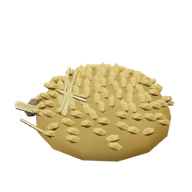
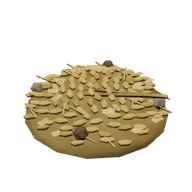
Avance: la criba con la veta a lo largo del aro, el solape cosido a la vista y la piel más oscura y curtida, con los agujeros algo irregulares; el grano sin limpiar, un montón bajo de color paja apagado con granos tumbados, granzas, briznas y chinas (segunda mirada: no); iconos-v26 rehechos
Claude-Session: https://claude.ai/code/session_011XgxtjEppnFb2Roiw57rgg

Changed region(s): [[0.0625, 0.3125, 0.9062, 0.8438]]

diff --git a/src/juego/modelos_objetos.js b/src/juego/modelos_objetos.js
@@ -635,6 +635,7 @@ function estacas(n, id) {
 // punzón (agujeros del tamaño de un grano, en hileras desde el centro). En el lote L, con el centro del fondo en (x, y, z)
 // y el giro (Euler YXZ) dado.
 export const CRIBA = { r: 0.23, alto: 0.075, grosor: 0.011 };
+const PIEL_CRIBA = 0x9a8262;   // la piel limpia ya usada: más oscura y curtida por el grano y el polvo
 export function cribaEn(L, x, y, z, giro = null, id = 'criba') {
   const { r, alto, grosor } = CRIBA;
   const g = giro ? new THREE.Matrix4().makeRotationFromEuler(new THREE.Euler(giro.x || 0, giro.y || 0, giro.z || 0, 'YXZ')) : new THREE.Matrix4();
@@ -644,14 +645,19 @@ export function cribaEn(L, x, y, z, giro = null, id = 'criba') {
     m.setPosition(0, 0, 0); L.add(geo, color, c.x, c.y, c.z, m, { sinSuelo: true, ...opc });
   };
   // el aro de fuera: una banda con su grosor (perfil girado), algo irregular de alto
-  const perfil = [[r, 0], [r + grosor, 0], [r + grosor, alto], [r, alto * 0.97], [r, 0]].map(([a, b]) => new THREE.Vector2(a, b));
-  pon(new THREE.LatheGeometry(perfil, 28), 0x8f7350, 0, 0, 0, { tex: 'veta' });
+  // (con muchos puntos a lo alto, para que la veta, a lo largo del aro, tenga dónde pintarse)
+  const N = 14, perfil = [[r, 0], [r + grosor, 0]];
+  for (let i = 1; i <= N; i++) perfil.push([r + grosor, alto * i / N]);
+  for (let i = N; i >= 0; i--) perfil.push([r, alto * 0.97 * i / N]);
+  for (let i = 0; i < perfil.length; i++) perfil[i] = new THREE.Vector2(perfil[i][0], perfil[i][1]);
+  const vetaAro = v => 0.88 + 0.09 * Math.sin(v.y * 330 + Math.atan2(v.z, v.x) * 2) + 0.05 * Math.sin(v.y * 900 + Math.atan2(v.z, v.x) * 5);   // la veta, a lo largo del aro (es una tira de vara rajada y curvada)
+  pon(new THREE.LatheGeometry(perfil, 28), 0x8a6d4a, 0, 0, 0, { tex: 'liso', rayas: vetaAro });
   // el aro de dentro, más bajo, que pinza la piel contra el de fuera
   const perfil2 = [[r - grosor * 0.9, 0.004], [r, 0.004], [r, 0.03], [r - grosor * 0.9, 0.03], [r - grosor * 0.9, 0.004]].map(([a, b]) => new THREE.Vector2(a, b));
-  pon(new THREE.LatheGeometry(perfil2, 28), 0x7a6043, 0, 0, 0, { tex: 'veta' });
+  pon(new THREE.LatheGeometry(perfil2, 28), 0x75593c, 0, 0, 0, { tex: 'liso', rayas: vetaAro });
   // el solape de las puntas del aro de fuera, cosido con tres puntadas de tira
   const aS = az(id, 1) * Math.PI * 2, rot = new THREE.Matrix4().makeRotationY(-aS);
-  pon(cajaR(0.006, alto * 0.95, 0.09, 0.002), 0x846946, Math.cos(aS) * (r + grosor + 0.003), alto * 0.48, Math.sin(aS) * (r + grosor + 0.003), { tex: 'veta' }, rot);
+  pon(cajaR(0.007, alto * 0.95, 0.12, 0.002), 0x6f5539, Math.cos(aS) * (r + grosor + 0.003), alto * 0.48, Math.sin(aS) * (r + grosor + 0.003), { tex: 'veta' }, rot);
   for (let k = -1; k <= 1; k++) {
     const a = aS + k * 0.13;
     pon(new THREE.TorusGeometry(0.012, 0.0022, 3, 8), 0x5a4330, Math.cos(a) * (r + grosor / 2), alto * 0.5, Math.sin(a) * (r + grosor / 2), { tex: 'liso' }, new THREE.Matrix4().makeRotationY(-a).multiply(new THREE.Matrix4().makeScale(0.7, 2.2, 1)));
@@ -660,19 +666,19 @@ export function cribaEn(L, x, y, z, giro = null, id = 'criba') {
   const fondo = new THREE.CircleGeometry(r + grosor * 0.2, 28, 0, Math.PI * 2); fondo.rotateX(-Math.PI / 2);
   const fp = fondo.attributes.position; for (let i = 0; i < fp.count; i++) { const d = Math.hypot(fp.getX(i), fp.getZ(i)) / r; fp.setY(i, -0.006 * (1 - d * d)); }
   fondo.computeVertexNormals();
-  pon(fondo, PIEL_LIMPIA, 0, 0.012, 0, { tex: 'liso', rayas: moteadoPiel(id, 1.2) });
+  pon(fondo, PIEL_CRIBA, 0, 0.012, 0, { tex: 'liso', rayas: moteadoPiel(id, 2.2) });
   // y por debajo (la cara de fuera de la piel), para que se vea también de canto y desde abajo, con sus agujeros
   const debajo = fondo.clone(); debajo.translate(0, -0.0012, 0);
   { const ix = debajo.index; if (ix) for (let i = 0; i < ix.count; i += 3) { const t = ix.getX(i); ix.setX(i, ix.getX(i + 2)); ix.setX(i + 2, t); } }
   debajo.computeVertexNormals();
-  pon(debajo, PIEL_LIMPIA, 0, 0.012, 0, { tex: 'liso', rayas: moteadoPiel(id, 1.2) });
+  pon(debajo, PIEL_CRIBA, 0, 0.012, 0, { tex: 'liso', rayas: moteadoPiel(id, 2.2) });
   // los agujeros a punzón, en anillos (de dentro afuera) hasta cerca del aro: del tamaño de un grano
   for (let a = 1; a <= 7; a++) {
     const ra = a * (r - 0.03) / 7, n = Math.round(6 * a);
     for (let k = 0; k < n; k++) {
-      const t = (k + (a % 2) * 0.5) / n * Math.PI * 2, d = Math.hypot(Math.cos(t) * ra, Math.sin(t) * ra) / r;
-      pon(new THREE.CircleGeometry(0.0048, 5), 0x2e241b, Math.cos(t) * ra, 0.0145 - 0.006 * (1 - d * d), Math.sin(t) * ra, { tex: 'liso' }, new THREE.Matrix4().makeRotationX(-Math.PI / 2));
-      pon(new THREE.CircleGeometry(0.0048, 5), 0x2e241b, Math.cos(t) * ra, 0.0095 - 0.006 * (1 - d * d), Math.sin(t) * ra, { tex: 'liso' }, new THREE.Matrix4().makeRotationX(Math.PI / 2));
+      const t = (k + (a % 2) * 0.5 + (az(id, a * 100 + k) - 0.5) * 0.35) / n * Math.PI * 2, rr = ra + (az(id, a * 100 + k + 50) - 0.5) * 0.008, d = rr / r, q = 0.8 + az(id, a * 100 + k + 70) * 0.5;
+      pon(new THREE.CircleGeometry(0.0048 * q, 5), 0x2e241b, Math.cos(t) * rr, 0.0145 - 0.006 * (1 - d * d), Math.sin(t) * rr, { tex: 'liso' }, new THREE.Matrix4().makeRotationX(-Math.PI / 2));
+      pon(new THREE.CircleGeometry(0.0048 * q, 5), 0x2e241b, Math.cos(t) * rr, 0.0095 - 0.006 * (1 - d * d), Math.sin(t) * rr, { tex: 'liso' }, new THREE.Matrix4().makeRotationX(Math.PI / 2));
     }
   }
 }
@@ -685,23 +691,29 @@ function criba(n, id) {
 // (P11, 14 nov) el grano sin limpiar, recién trillado: un montoncito de granos de cebada revueltos con granzas (cascarillas
 // y aristas pálidas), briznas de paja y alguna china y terrón de la era
 function granoSucio(n, id) {
-  const L = lote(0.03);
-  // el montón: una cúpula baja del color del grano revuelto con granzas (más oscura a manchas), y los granos por encima
-  const mon = new THREE.SphereGeometry(0.062, 14, 6, 0, Math.PI * 2, 0, Math.PI / 2); mon.scale(1, 0.55, 1);
-  L.add(mon, 0xae9558, 0, 0, 0, null, { tex: 'liso', sinSuelo: true, rayas: v => 0.86 + 0.14 * Math.sin(v.x * 300 + v.z * 170) * Math.cos(v.z * 260 - v.y * 200) });
-  const k = 110;
-  for (let i = 0; i < k; i++) {   // los granos, en montón (más alto en el centro, unos encima de otros)
-    const a = i * 2.399 + az(id, i), d = Math.sqrt(i / k) * 0.06, y = 0.002 + 0.034 * Math.sqrt(Math.max(0, 1 - (d / 0.062) ** 2));
-    const gr = new THREE.IcosahedronGeometry(0.0045, 0); gr.scale(0.75, 0.75, 1.5);
-    L.add(gr, ESPIGA, Math.cos(a) * d, y, Math.sin(a) * d, { y: az(id, i + 50) * 6, x: 0.4 }, { tex: 'liso', sinSuelo: true, brillo: 0.95 });
+  const L = lote(0.03), H = 0.024, R = 0.065;   // un montón bajo, como el que queda al barrer la era
+  const alto = d => 0.002 + H * Math.sqrt(Math.max(0, 1 - (d / R) ** 2));
+  // el montón: una cúpula baja del pardo pajizo del grano revuelto con granzas y polvo de la era, a manchas
+  const mon = new THREE.SphereGeometry(R, 16, 6, 0, Math.PI * 2, 0, Math.PI / 2); mon.scale(1, H / R, 1);
+  L.add(mon, 0x8c7a52, 0, 0, 0, null, { tex: 'liso', sinSuelo: true, rayas: v => 0.84 + 0.16 * Math.sin(v.x * 300 + v.z * 170) * Math.cos(v.z * 260 - v.y * 200) });
+  const k = 120;
+  for (let i = 0; i < k; i++) {   // los granos, tumbados por encima del montón: ovalados, de color paja apagado
+    const a = i * 2.399 + az(id, i), d = Math.sqrt(i / k) * R * 0.95;
+    const gr = new THREE.SphereGeometry(0.0042, 5, 3); gr.scale(0.8, 0.55, 1.6);
+    L.add(gr, i % 4 ? 0xa48f5c : 0x93804f, Math.cos(a) * d, alto(d), Math.sin(a) * d, { y: az(id, i + 50) * 6 }, { tex: 'liso', sinSuelo: true });
   }
-  for (let i = 0; i < 26; i++) {   // granzas y aristas encima y alrededor
-    const a = az(id, i + 100) * 6.283, d = 0.01 + az(id, i + 130) * 0.06, y = 0.004 + 0.034 * Math.sqrt(Math.max(0, 1 - (d / 0.062) ** 2));
-    L.add(cil(0.0012, 0.0012, 0.02 + az(id, i + 160) * 0.035, 3), i % 3 ? ARISTA : 0xb3a46a, Math.cos(a) * d, y, Math.sin(a) * d, { z: Math.PI / 2 - 0.2, y: az(id, i + 190) * 6 }, { sinSuelo: true, brillo: 1.05 });
+  for (let i = 0; i < 40; i++) {   // las granzas: cascarillas planas y claras, y trozos de arista
+    const a = az(id, i + 100) * 6.283 + i * 0.7, d = Math.sqrt(az(id, i + 130)) * R * 0.95;
+    if (i % 2) { const c = new THREE.PlaneGeometry(0.006, 0.01); c.rotateX(-Math.PI / 2); L.add(c, 0xab9c72, Math.cos(a) * d, alto(d) + 0.002, Math.sin(a) * d, { y: az(id, i + 190) * 6 }, { tex: 'liso', sinSuelo: true }); }
+    else L.add(cil(0.0009, 0.0009, 0.012 + az(id, i + 160) * 0.012, 3), 0xa99a6e, Math.cos(a) * d, alto(d) + 0.002, Math.sin(a) * d, { z: Math.PI / 2, y: az(id, i + 190) * 6 }, { sinSuelo: true });
   }
-  for (let i = 0; i < 7; i++) {   // chinas y terrones de la era
-    const a = az(id, i + 220) * 6.283, d = 0.02 + az(id, i + 240) * 0.05;
-    L.add(new THREE.IcosahedronGeometry(0.0035 + az(id, i + 260) * 0.003, 0), i % 2 ? 0x6e604f : 0x7a756c, Math.cos(a) * d, 0.003 + 0.034 * Math.sqrt(Math.max(0, 1 - (d / 0.062) ** 2)), Math.sin(a) * d, null, { tex: 'liso', sinSuelo: true, plano: true });
+  for (let i = 0; i < 6; i++) {   // briznas de paja, más largas, encima y saliendo del montón
+    const a = az(id, i + 300) * 6.283, d = az(id, i + 310) * R * 0.8;
+    L.add(cil(0.0016, 0.0016, 0.05 + az(id, i + 320) * 0.04, 3), 0xb9a46c, Math.cos(a) * d, alto(d) + 0.003, Math.sin(a) * d, { z: Math.PI / 2 - 0.08, y: az(id, i + 330) * 6 }, { tex: 'paja', sinSuelo: true });
+  }
+  for (let i = 0; i < 4; i++) {   // chinas y terrones de la era, que se ven
+    const a = az(id, i + 220) * 6.283 + i * 1.6, d = R * (0.35 + az(id, i + 240) * 0.55);
+    L.add(new THREE.IcosahedronGeometry(0.0042 + az(id, i + 260) * 0.0022, 0), i % 2 ? 0x5e5244 : 0x77736a, Math.cos(a) * d, alto(d) + 0.002, Math.sin(a) * d, { y: i }, { tex: 'liso', sinSuelo: true, plano: true });
   }
   return mallas(L);
 }
